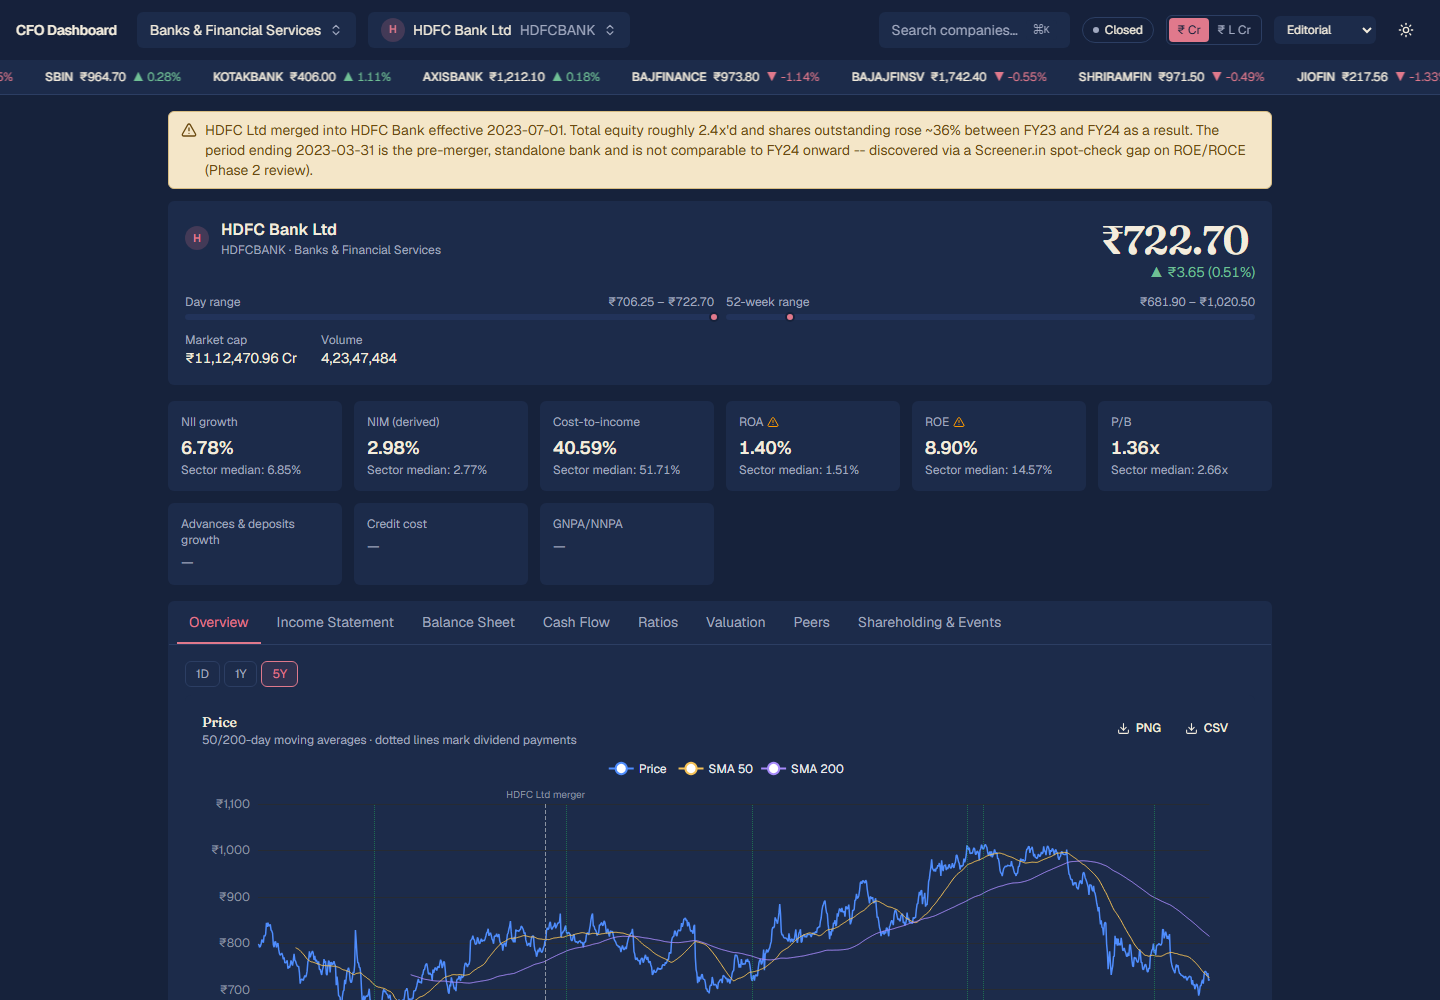
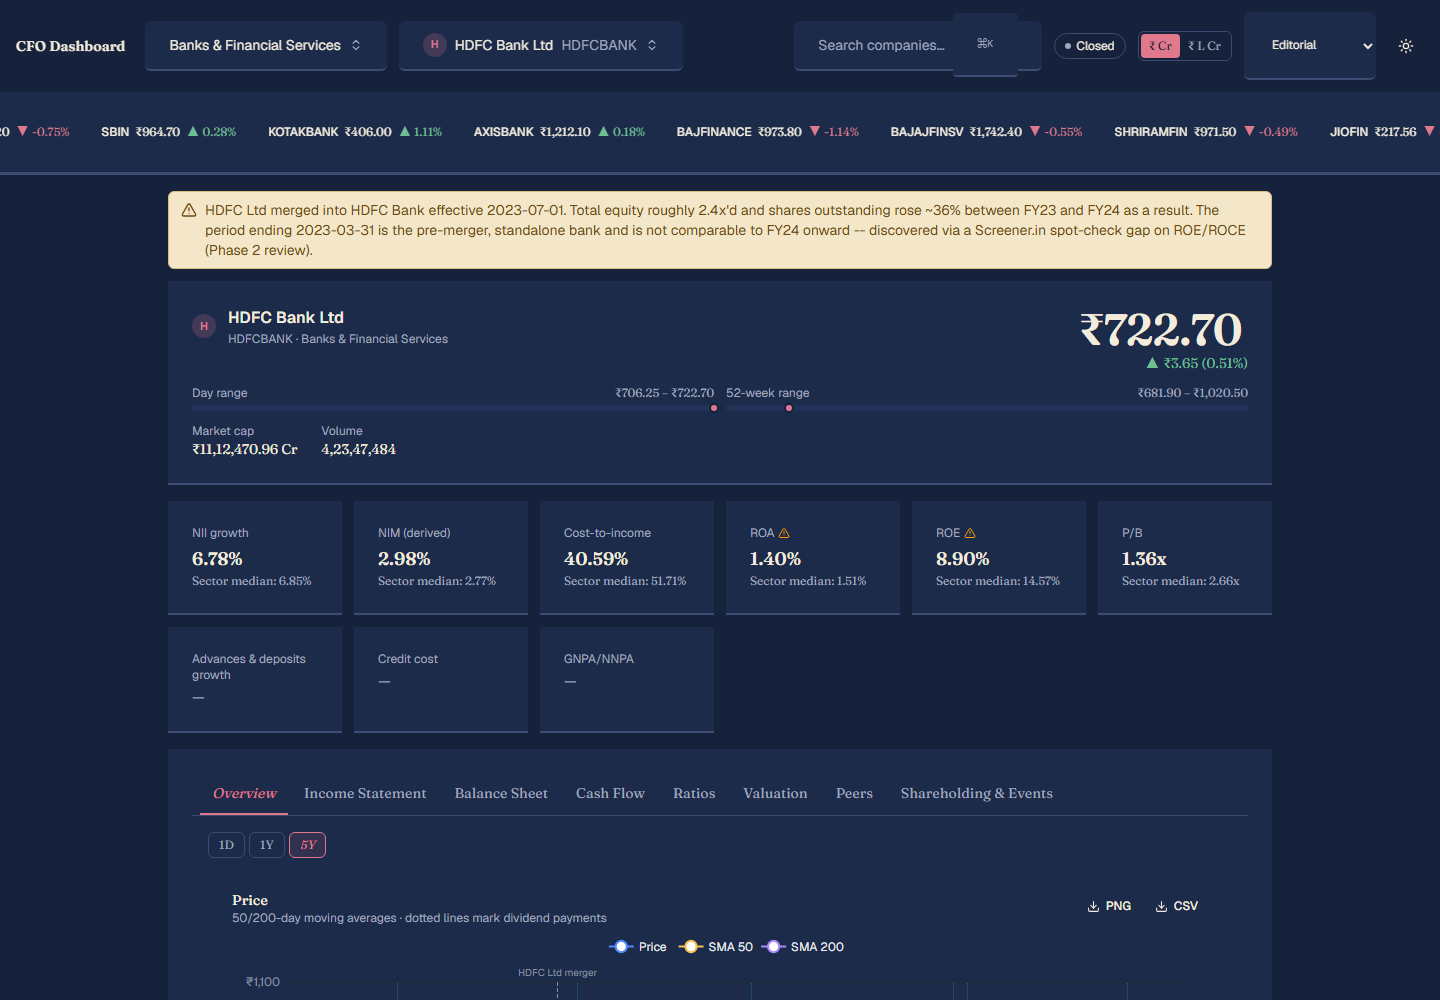
ui-exploration: make the 3 themes actually different, not just colour
Feedback: the previous pass only changed background/surface/accent
colours -- everything still used the same font and card shape. Each
theme now sets four kinds of token, not one:

- Typography: Terminal goes fully monospace (body + headings + tab
  labels, via a new --font-body variable on <body>); Clean SaaS loads
  Inter for a distinct humanist body font from Terminal's mono and
  Editorial's serif; Editorial's serif (Fraunces) now also covers the
  brand title and tab labels, not just chart-card <h3> titles, with the
  active tab going italic.
- Shape: Terminal sharp corners (0.25rem) with a full 1px border box;
  Clean SaaS very round (1.25rem) with no border, shadow only; Editorial
  square corners (0) with a ruled hairline instead of a boxed card.
- Micro-labels: the uppercase-tracked KPI/section labels are themed as a
  group (`--label-transform`/`--label-tracking`) -- Terminal keeps them
  tracked-uppercase, Clean SaaS switches them to normal sentence case,
  Editorial keeps uppercase with wider tracking.
- Numbers: `.tabular-nums-fixed` (every KPI/ratio value in the app, not
  just the header price) now carries the theme's typeface too -- mono
  for Terminal, Inter/bold for Clean SaaS, serif old-style figures for
  Editorial, with the oversized hero price kept on lining figures for
  legibility at that size.
- Colour: Terminal's accent moved off the default blue to a phosphor
  green, on top of the existing Clean SaaS indigo / Editorial burgundy.
[…]

diff --git a/frontend/app/globals.css b/frontend/app/globals.css
@@ -100,13 +100,31 @@ body {
    independent of `data-theme` (next-themes' existing dark/light axis),
    so the two combine freely (e.g. Editorial + dark). Same layout and
    chart data everywhere; only these presentation tokens change. Remove
-   this whole block, the switcher, and the extra font before merging to
+   this whole block, the switcher, and the extra fonts before merging to
    main.
+
+   Each theme sets FOUR kinds of token, not just colour:
+     --font-body / --font-heading  (typeface)
+     --radius, --card-*            (shape: corners, border vs shadow vs rule)
+     --label-transform/-tracking   (how uppercase micro-labels read)
+     --background/--surface/etc.   (colour)
+   so switching themes visibly changes typography and shape, not just a
+   background swap.
    ============================================================ */
 
 :root {
+  --font-body: var(--font-sans);
   --font-heading: var(--font-sans);
   --card-shadow: none;
+  --card-border-width: 1px;
+  --card-border-style: solid;
+  --card-padding: 1rem;
+  --label-transform: uppercase;
+  --label-tracking: 0.05em;
+}
+
+body {
+  font-family: var(--font-body), var(--font-sans), Arial, Helvetica, sans-serif;
 }
 
 /* Card look, driven by the tokens each theme below sets -- matches the
@@ -116,27 +134,70 @@ body {
    `rounded-lg` itself already retheme via `--radius` -> `--radius-lg`
    in the `@theme inline` block above. */
 .border-border.bg-surface {
+  border-width: 0 0 var(--card-border-width) 0;
+  border-style: var(--card-border-style);
   box-shadow: var(--card-shadow);
+  padding: var(--card-padding);
 }
 
 h1,
 h2,
 h3,
-.hero-number {
+h4,
+.brand-title,
+.hero-number,
+[role="tab"] {
   font-family: var(--font-heading);
 }
 
-/* Theme A "Terminal" (default): the original dense dark look (see the
-   base :root / :root[data-theme="light"] tokens above), just with
-   monospace-leaning tabular numbers to lean into the "terminal" feel. */
-[data-visual-theme="terminal"] .tabular-nums-fixed {
-  font-family: var(--font-mono);
+/* The app's small uppercase-tracked micro-labels (KPI/ratio-card labels,
+   section headings like the "Valuation" h4 above a metric) -- themed as a
+   group via the Tailwind utilities they already carry. */
+.uppercase.tracking-wide {
+  text-transform: var(--label-transform);
+  letter-spacing: var(--label-tracking);
 }
 
-/* Theme B "Clean SaaS": light-first (with its own dark mode), soft
-   shadow elevation instead of hard borders, rounded corners, generous
-   padding, muted indigo accent. */
+/* ------------------------------------------------------------
+   Theme A "Terminal" (default): whole UI goes monospace, sharp
+   corners, full borders on every side (a real box, not a rule),
+   phosphor-green accent instead of blue -- the densest, most
+   "terminal" of the three rather than just "the current look".
+   ------------------------------------------------------------ */
+:root[data-visual-theme="terminal"] {
+  --font-body: var(--font-mono);
+  --font-heading: var(--font-mono);
+  --radius: 0.25rem;
+  --card-border-width: 1px;
+  --card-padding: 0.875rem;
+  --label-transform: uppercase;
+  --label-tracking: 0.08em;
+  --accent: #2fd67f;
+  --accent-foreground: #06130b;
+}
+:root[data-visual-theme="terminal"][data-theme="light"] {
+  --accent: #0a8f4f;
+  --accent-foreground: #ffffff;
+}
+[data-visual-theme="terminal"] .border-border.bg-surface {
+  border-width: 1px;
+}
+[data-visual-theme="terminal"] [role="tab"] {
+  text-transform: uppercase;
+  letter-spacing: 0.06em;
+  font-size: 0.8125rem;
+}
+
+/* ------------------------------------------------------------
+   Theme B "Clean SaaS": Inter body copy (distinct from Terminal's
+   mono and Editorial's serif headings), light-first with its own
+   dark mode, soft shadow elevation instead of hard borders, large
+   rounded corners, generous padding, micro-labels read as normal
+   sentence case instead of tracked uppercase, indigo accent.
+   ------------------------------------------------------------ */
 :root[data-visual-theme="clean-saas"] {
+  --font-body: var(--font-inter);
+  --font-heading: var(--font-inter);
   --background: #f8fafc;
   --foreground: #0f172a;
   --surface: #ffffff;
@@ -150,7 +211,11 @@ h3,
   --warning-bg: #fffbeb;
   --warning-border: #fde68a;
   --warning-foreground: #92400e;
-  --radius: 1rem;
+  --radius: 1.25rem;
+  --card-border-width: 0px;
+  --card-padding: 1.25rem;
+  --label-transform: none;
+  --label-tracking: normal;
   --card-shadow:
     0 1px 2px rgba(15, 23, 42, 0.04), 0 12px 28px rgba(15, 23, 42, 0.07);
 }
@@ -170,17 +235,31 @@ h3,
 :root[data-visual-theme="clean-saas"] .border-border.bg-surface {
   border-color: transparent;
 }
+:root[data-visual-theme="clean-saas"] body {
+  line-height: 1.6;
+}
+:root[data-visual-theme="clean-saas"] [role="tab"] {
+  font-weight: 500;
+}
+:root[data-visual-theme="clean-saas"] .tabular-nums-fixed {
+  font-family: var(--font-body);
+  font-weight: 600;
+}
 
-/* Theme C "Editorial": serif headings + sans body, oversized hero
-   numbers for key stats, navy / cream / burgundy palette, more
-   whitespace (tighter, squared-off radius reads more "print" than
-   "app"). */
+/* ------------------------------------------------------------
+   Theme C "Editorial": serif headings (Fraunces) over sans body
+   copy, oversized serif hero numbers with old-style figures, navy
+   / cream / burgundy palette, squared-off print-like corners, cards
+   read as a ruled column (bottom hairline only) instead of a boxed
+   card, more line-height/whitespace throughout.
+   ------------------------------------------------------------ */
 :root[data-visual-theme="editorial"] {
+  --font-heading: var(--font-serif-editorial);
   --background: #f6f1e6;
   --foreground: #1b2942;
   --surface: #fffdf8;
   --surface-raised: #fffdf8;
-  --border: #e2d7bf;
+  --border: #d8c9a3;
   --muted: #756c58;
   --accent: #8a2a3b;
   --accent-foreground: #fffdf8;
@@ -189,15 +268,19 @@ h3,
   --warning-bg: #f4e6c8;
   --warning-border: #d8bd82;
   --warning-foreground: #6b4a10;
-  --radius: 0.375rem;
-  --font-heading: var(--font-serif-editorial);
+  --radius: 0px;
+  --card-border-width: 2px;
+  --card-padding: 1.5rem;
+  --label-transform: uppercase;
+  --label-tracking: 0.12em;
+  --card-shadow: none;
 }
 :root[data-visual-theme="editorial"][data-theme="dark"] {
   --background: #16223b;
   --foreground: #f3ecdd;
   --surface: #1c2b4a;
   --surface-raised: #22335a;
-  --border: #2c3e63;
+  --border: #3c4c72;
   --muted: #a0a8bf;
   --accent: #e0798c;
   --accent-foreground: #16223b;
@@ -205,11 +288,30 @@ h3,
   --down: #e0798c;
 }
 :root[data-visual-theme="editorial"] .border-border.bg-surface {
-  border-color: transparent;
+  border-color: var(--border);
+}
+:root[data-visual-theme="editorial"] body {
+  line-height: 1.65;
+}
+:root[data-visual-theme="editorial"] h1,
+:root[data-visual-theme="editorial"] h2,
+:root[data-visual-theme="editorial"] h3,
+:root[data-visual-theme="editorial"] h4,
+:root[data-visual-theme="editorial"] .brand-title,
+:root[data-visual-theme="editorial"] [role="tab"] {
+  letter-spacing: 0.01em;
+}
+:root[data-visual-theme="editorial"] [role="tab"][aria-selected="true"] {
+  font-style: italic;
+}
+:root[data-visual-theme="editorial"] .tabular-nums-fixed {
+  font-family: var(--font-heading);
+  font-variant-numeric: oldstyle-nums tabular-nums;
 }
 :root[data-visual-theme="editorial"] .hero-number {
-  font-size: 2.5rem;
+  font-size: 2.75rem;
   line-height: 1.1;
   font-weight: 600;
   letter-spacing: -0.01em;
+  font-variant-numeric: lining-nums tabular-nums;
 }

diff --git a/frontend/app/layout.tsx b/frontend/app/layout.tsx
@@ -1,5 +1,5 @@
 import type { Metadata } from "next";
-import { Fraunces, Geist, Geist_Mono } from "next/font/google";
+import { Fraunces, Geist, Geist_Mono, Inter } from "next/font/google";
 import "./globals.css";
 import { Providers } from "./providers";
 
@@ -13,10 +13,16 @@ const geistMono = Geist_Mono({
   subsets: ["latin"],
 });
 
-// UI-exploration branch only (theme C "Editorial" headings) -- remove
-// with the rest of the theme switcher before merging to main.
+// UI-exploration branch only (theme C "Editorial" headings, theme B
+// "Clean SaaS" body copy) -- remove with the rest of the theme switcher
+// before merging to main.
 const fraunces = Fraunces({
   variable: "--font-serif-editorial",
+  subsets: ["latin"],
+});
+
+const inter = Inter({
+  variable: "--font-inter",
   subsets: ["latin"],
 });
 
@@ -31,7 +37,7 @@ export default function RootLayout({ children }: LayoutProps<"/">) {
       lang="en"
       data-theme="dark"
       suppressHydrationWarning
-      className={`${geistSans.variable} ${geistMono.variable} ${fraunces.variable} h-full antialiased`}
+      className={`${geistSans.variable} ${geistMono.variable} ${fraunces.variable} ${inter.variable} h-full antialiased`}
     >
       <body className="min-h-full flex flex-col">
         <Providers>{children}</Providers>

diff --git a/frontend/components/top-bar.tsx b/frontend/components/top-bar.tsx
@@ -17,7 +17,7 @@ export function TopBar() {
   return (
     <div className="sticky top-0 z-40 border-b border-border bg-background/95 backdrop-blur">
       <div className="flex flex-wrap items-center gap-3 px-4 py-3">
-        <span className="mr-2 text-sm font-semibold tracking-tight">CFO Dashboard</span>
+        <span className="brand-title mr-2 text-sm font-semibold tracking-tight">CFO Dashboard</span>
 
         <SectorCombobox sectors={sectors} value={currentSectorName} onChange={selectSector} />
         <CompanyCombobox
